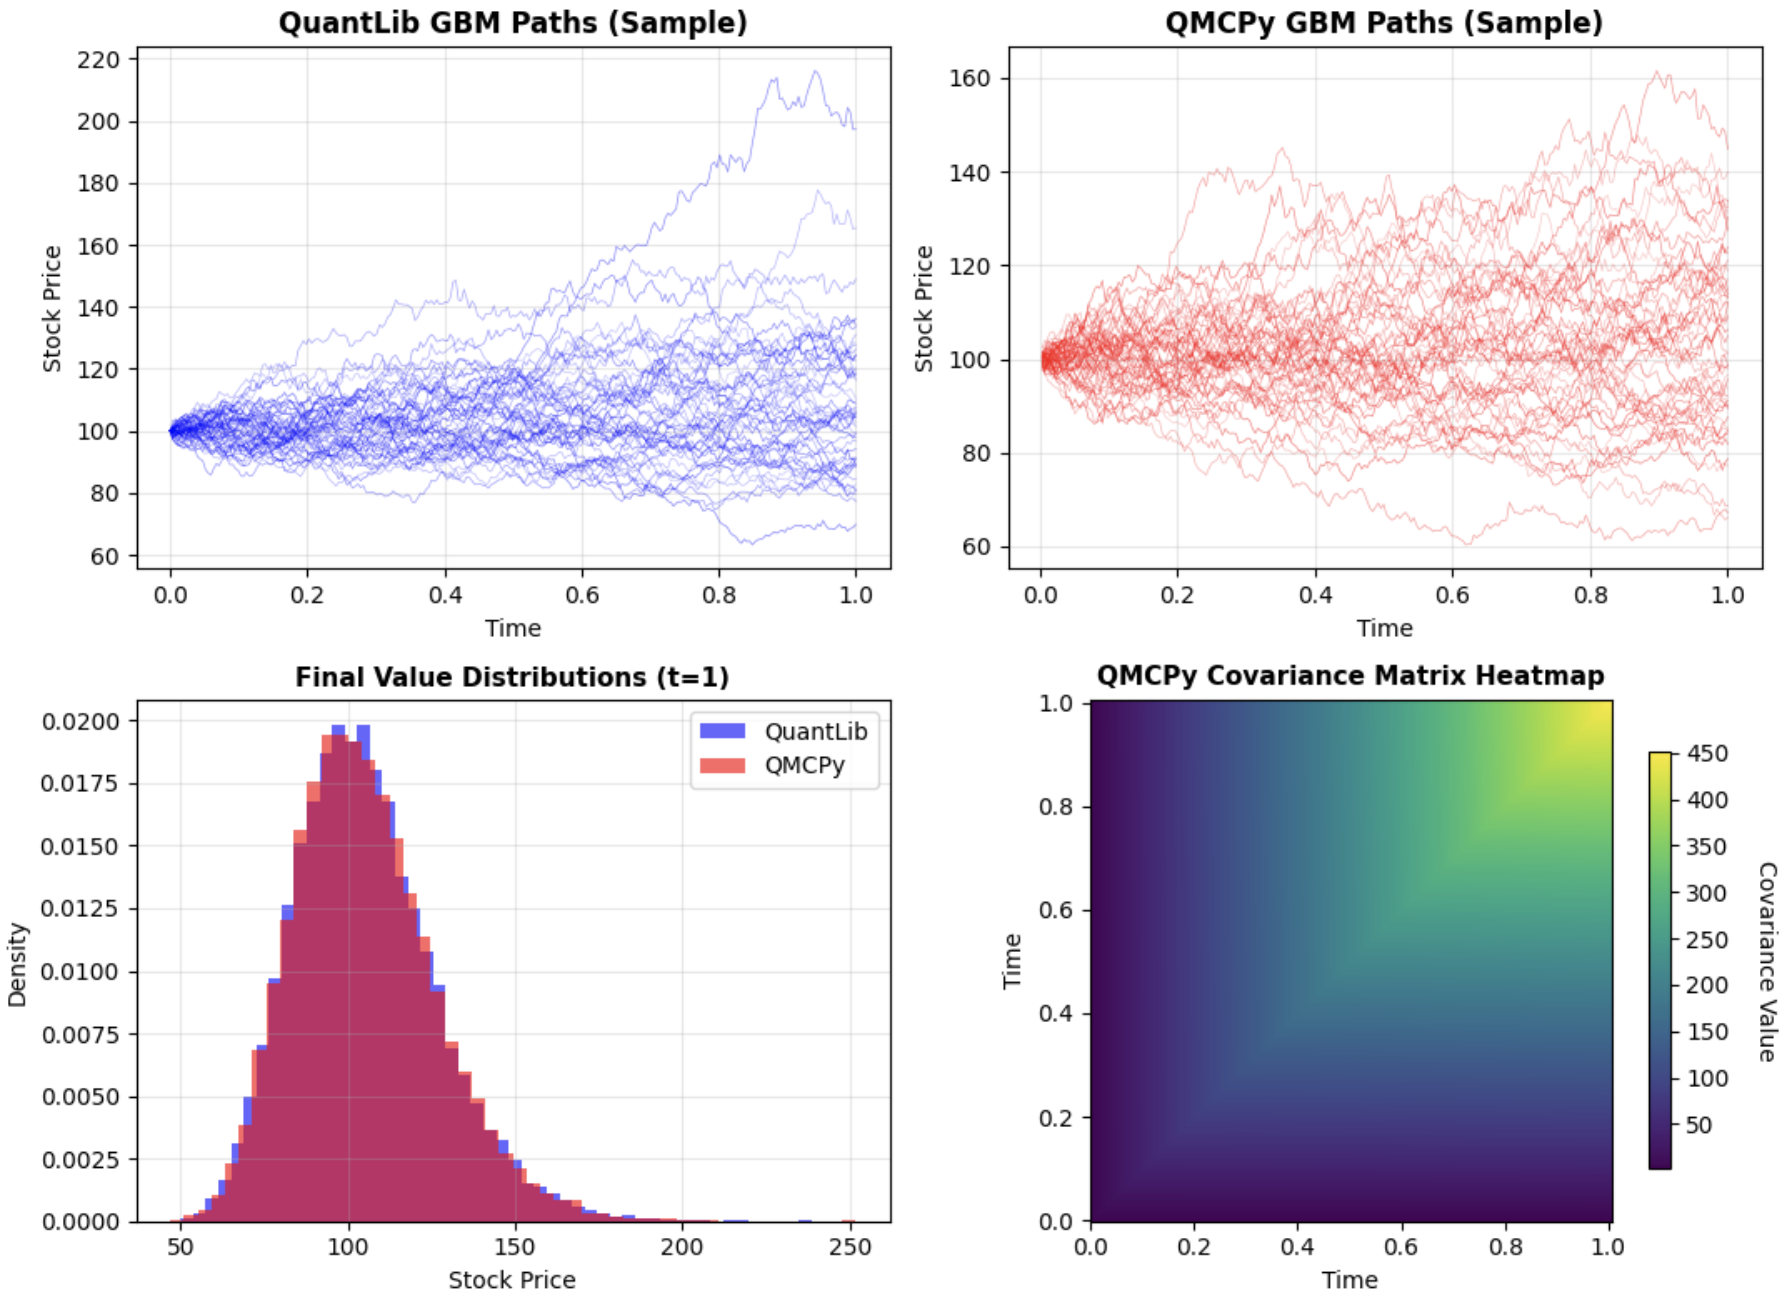
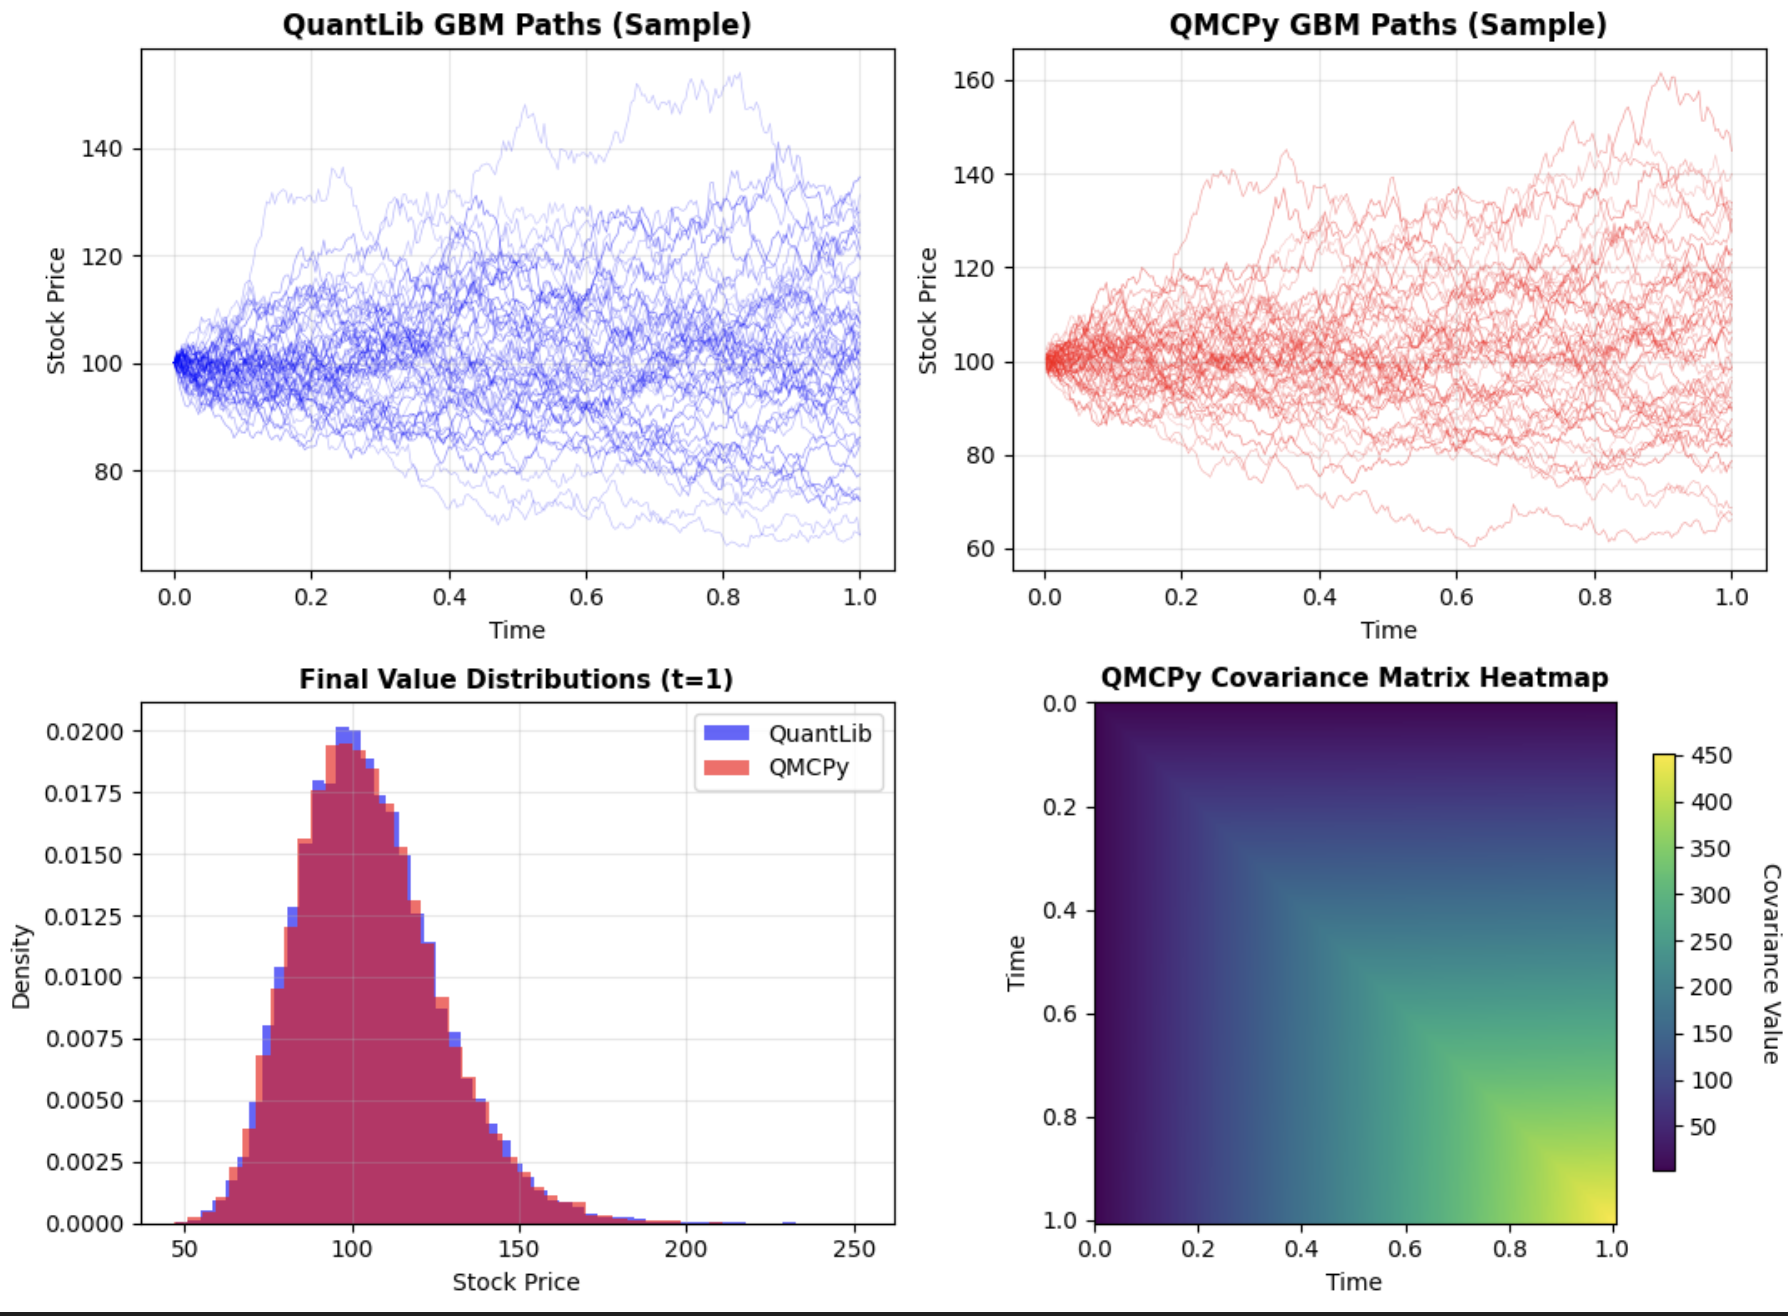
Add changes suggested by Aleksei

diff --git a/GBM/gbm.tex b/GBM/gbm.tex
@@ -24,7 +24,7 @@
 }
 
 \title{Highly Efficient Geometric Brownian Motion Modeling with QMCPy}
-\author{Larysa Matiukha and Sou-Cheng Choi}
+\author{Larysa Matiukha, Aleksei Sorokin, and Sou-Cheng Choi}
 \date{\today}
 \begin{document}
 \maketitle
@@ -67,6 +67,14 @@ We can create a simple GBM instance and generate sample paths to see the class i
     caption={Generating 4 samples from a 2-D GBM using QMCPy},
     label={lst:gbm_qmcpy}
 ]{code/gbm_qmcpy.py}
+
+The output shows 4-sample paths from a 2-dimensional GBM:
+\begin{verbatim}
+array([[2.27098076, 1.87407883],
+       [0.5370409 , 0.55870756],
+       [0.19231031, 0.3744054 ],
+       [1.01040524, 0.89379215]])
+\end{verbatim}
 
 Let's validate the  theoretical properties by generating a large number of GBM samples and comparing the empirical moments with the theoretical values. Note that the theoretical values match the last values captured in \texttt{qp\_gbm.mean\_gbm} and \texttt{qp\_gbm.covariance\_gbm} for the final time point. The results are reported in Table~\ref{tab1}.
 
@@ -168,12 +176,12 @@ In this section, we compare QMCPy's GeometricBrownianMotion implementation with 
 \begin{figure}[t!]
 \centering
 \includegraphics[width=1\textwidth]{images/figure_5.png}
-\caption{QMCPy vs QuantLib}
+\caption{QMCPy vs QuantLib comparison. The heatmap displays the covariance matrix with time 0 at the top of the y-axis, allowing direct visual comparison with the numerical values in the  matrix such as the one shown in Table~\ref{tab1}.}
 \end{figure}
 
 \begin{table}[t]
 \centering
-\caption{QuantLib vs QMCPy: QMCPy is 3 times faster than QuantLib in generating thousands of paths.}
+\caption{QuantLib vs QMCPy: QMCPy is most 4 times faster than QuantLib in generating thousands of paths.}
 \begin{tabular}{lccc}
 \toprule
 \textbf{Method} & \textbf{Mean} & \textbf{Std. Dev.} & \textbf{Time (s)}   \\
@@ -215,9 +223,6 @@ S(t+\Delta t) \;=\; S(t)\,\exp\!\Bigl((\mu - \tfrac12\sigma^2)\Delta t \;+\;\sig
 \]
 ensuring that the simulated paths respect the intended covariance structure and remain strictly positive (with strict‐positivity checks raising warnings or errors if violated).
 
-
-The internal \texttt{\_spawn} method allows one to clone a GBM model—reusing precomputed factorization and parameters—while swapping in a new sampler or changing the dimensionality.  For example, suppose you want to compare IID sampling against a Sobol low‐discrepancy sequence without re‐initializing the covariance factorization each time. 
-Because \texttt{\_spawn} avoids recomputing $L$ or the $P,D$ eigendecomposition, initialization time can be substantially reduced in large‐scale Monte Carlo experimentation with different sampling methods.
 
 
 \begin{thebibliography}{6}
